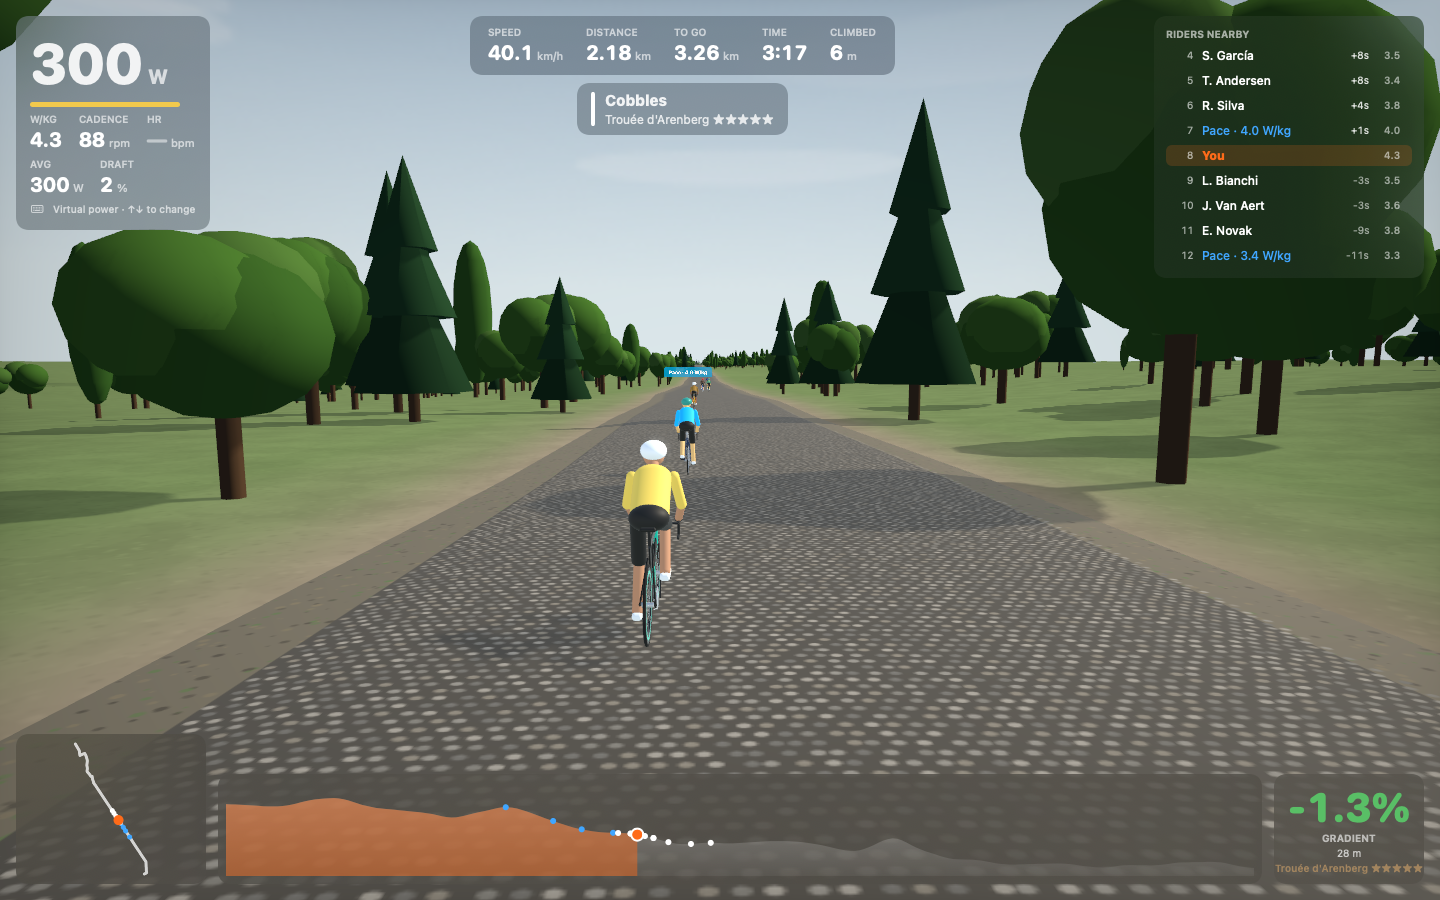
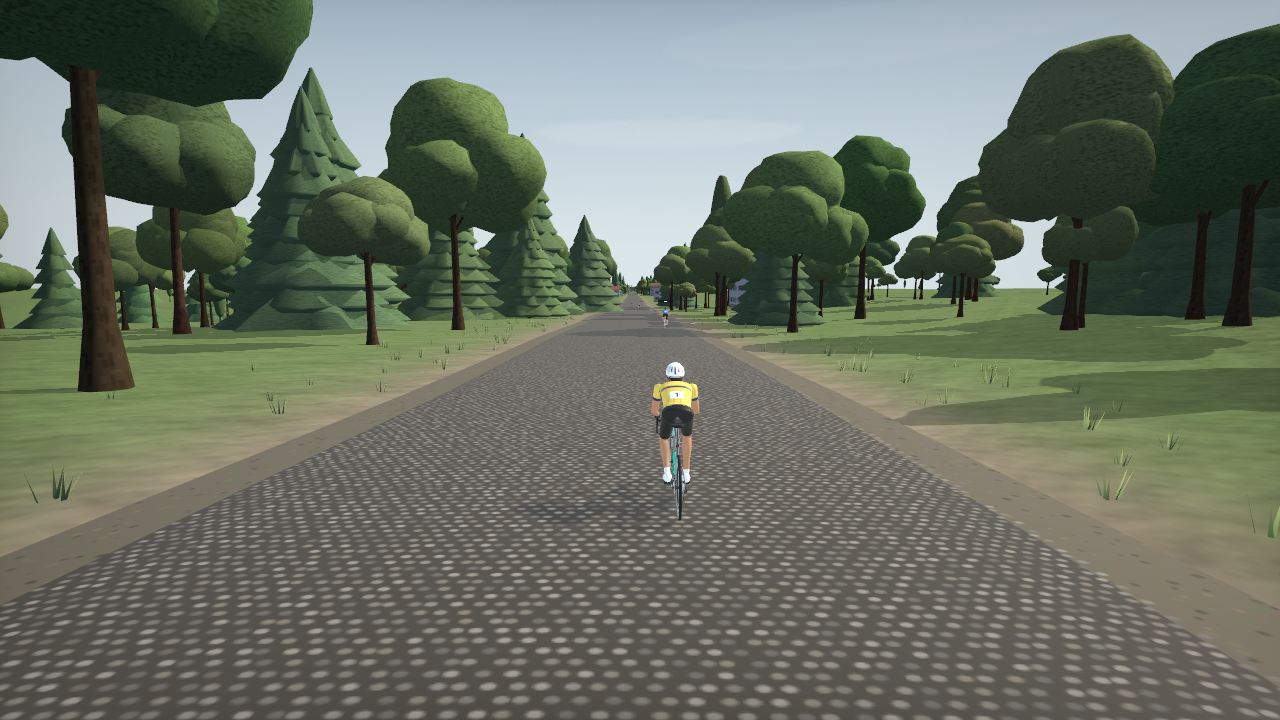
Refresh README screenshots with the new models and scenery
Claude-Session: https://claude.ai/code/session_01Kkmkr3xjaDpLK8kTVpPhLB

diff --git a/README.md b/README.md
@@ -4,11 +4,13 @@ A native macOS indoor-cycling simulator written in Swift. It uses SwiftUI, Scene
 
 Ride the Alpe d'Huez hairpins, the Stelvio, Mont Ventoux, the Zoncolan and the Angliru, plus the Arenberg cobbles, the Poggio and the Worlds circuits in Montréal and Zürich. All of them are traced over **real OpenStreetMap roads** with **real elevation models**, and the surrounding valleys and peaks come from the actual terrain.
 
-![Alpe d'Huez with the in-ride HUD](docs/screenshots/alpe-dhuez.png)
+![Climbing the Stelvio with the in-ride HUD](docs/screenshots/stelvio-ride.png)
 
 | Stelvio hairpins (helicopter cam) | Trouée d'Arenberg cobbles |
 |---|---|
 | ![Stelvio](docs/screenshots/stelvio-hairpins.png) | ![Arenberg](docs/screenshots/arenberg.png) |
+| **Milan–San Remo finale (Liguria)** | **Alpe d'Huez (side cam)** |
+| ![Sanremo](docs/screenshots/sanremo.png) | ![Alpe d'Huez](docs/screenshots/alpe-dhuez-side.png) |
 
 *These screenshots come from the app's headless renderer (`Breakaway --snapshot <dir> [routes]`), which CI runs on every change.*
 
